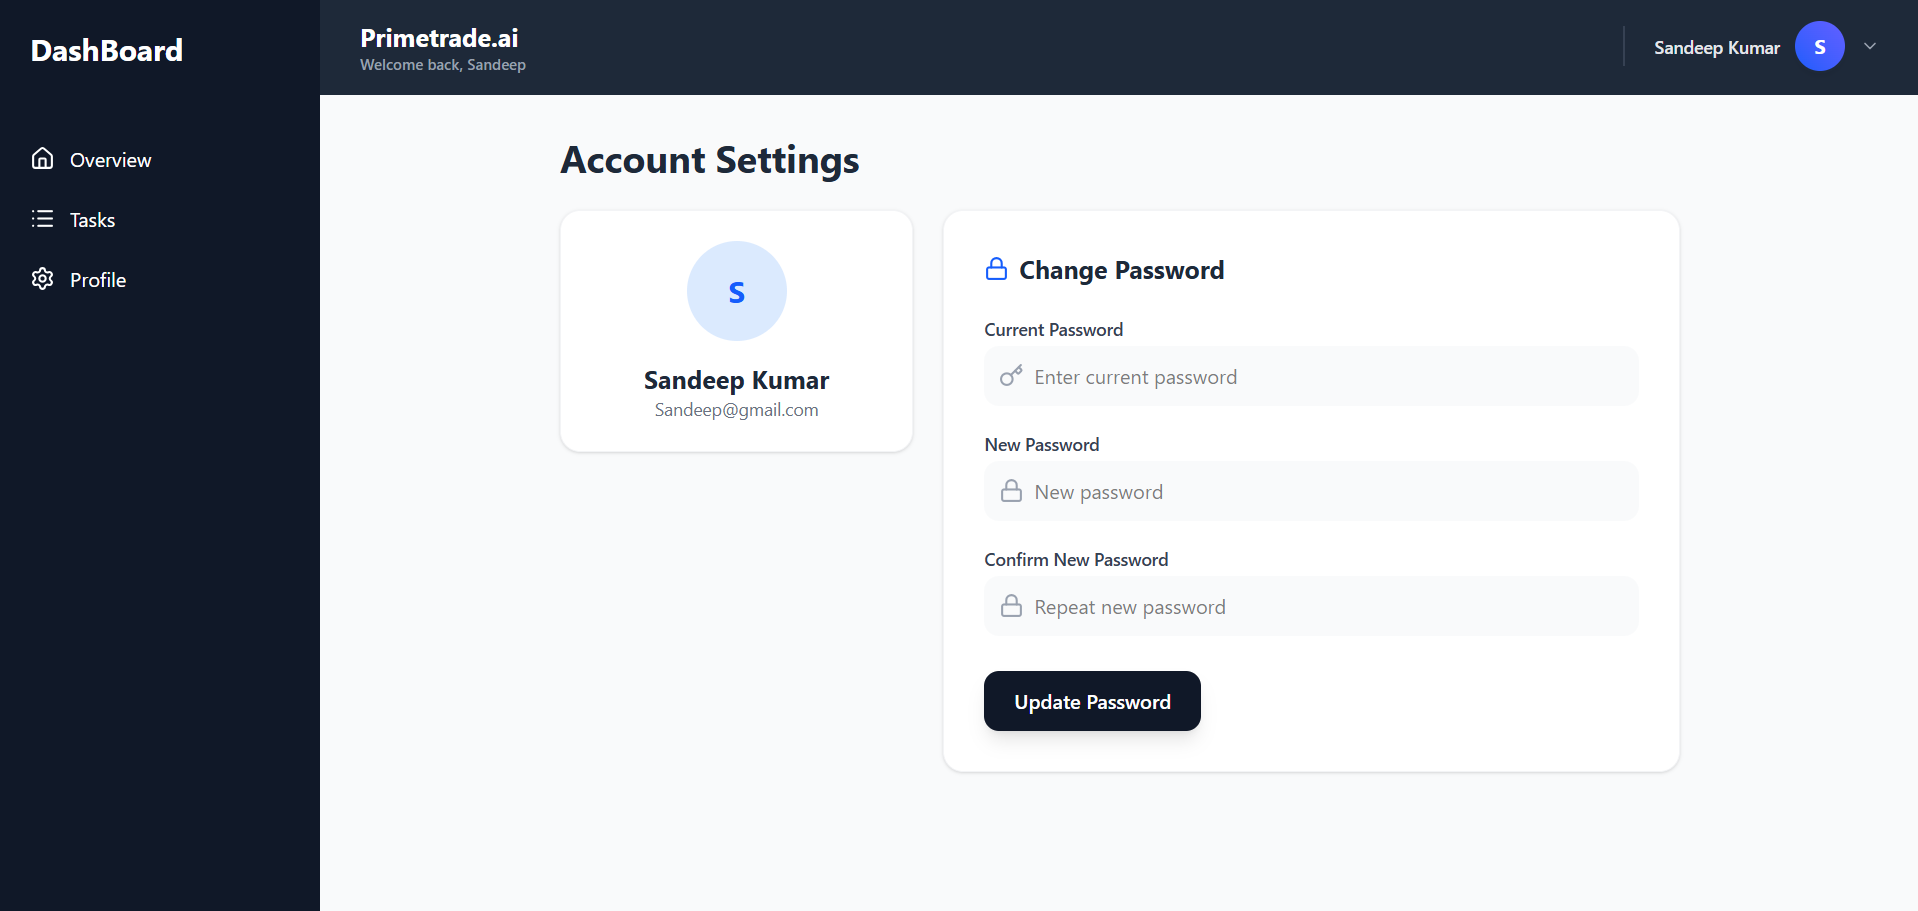
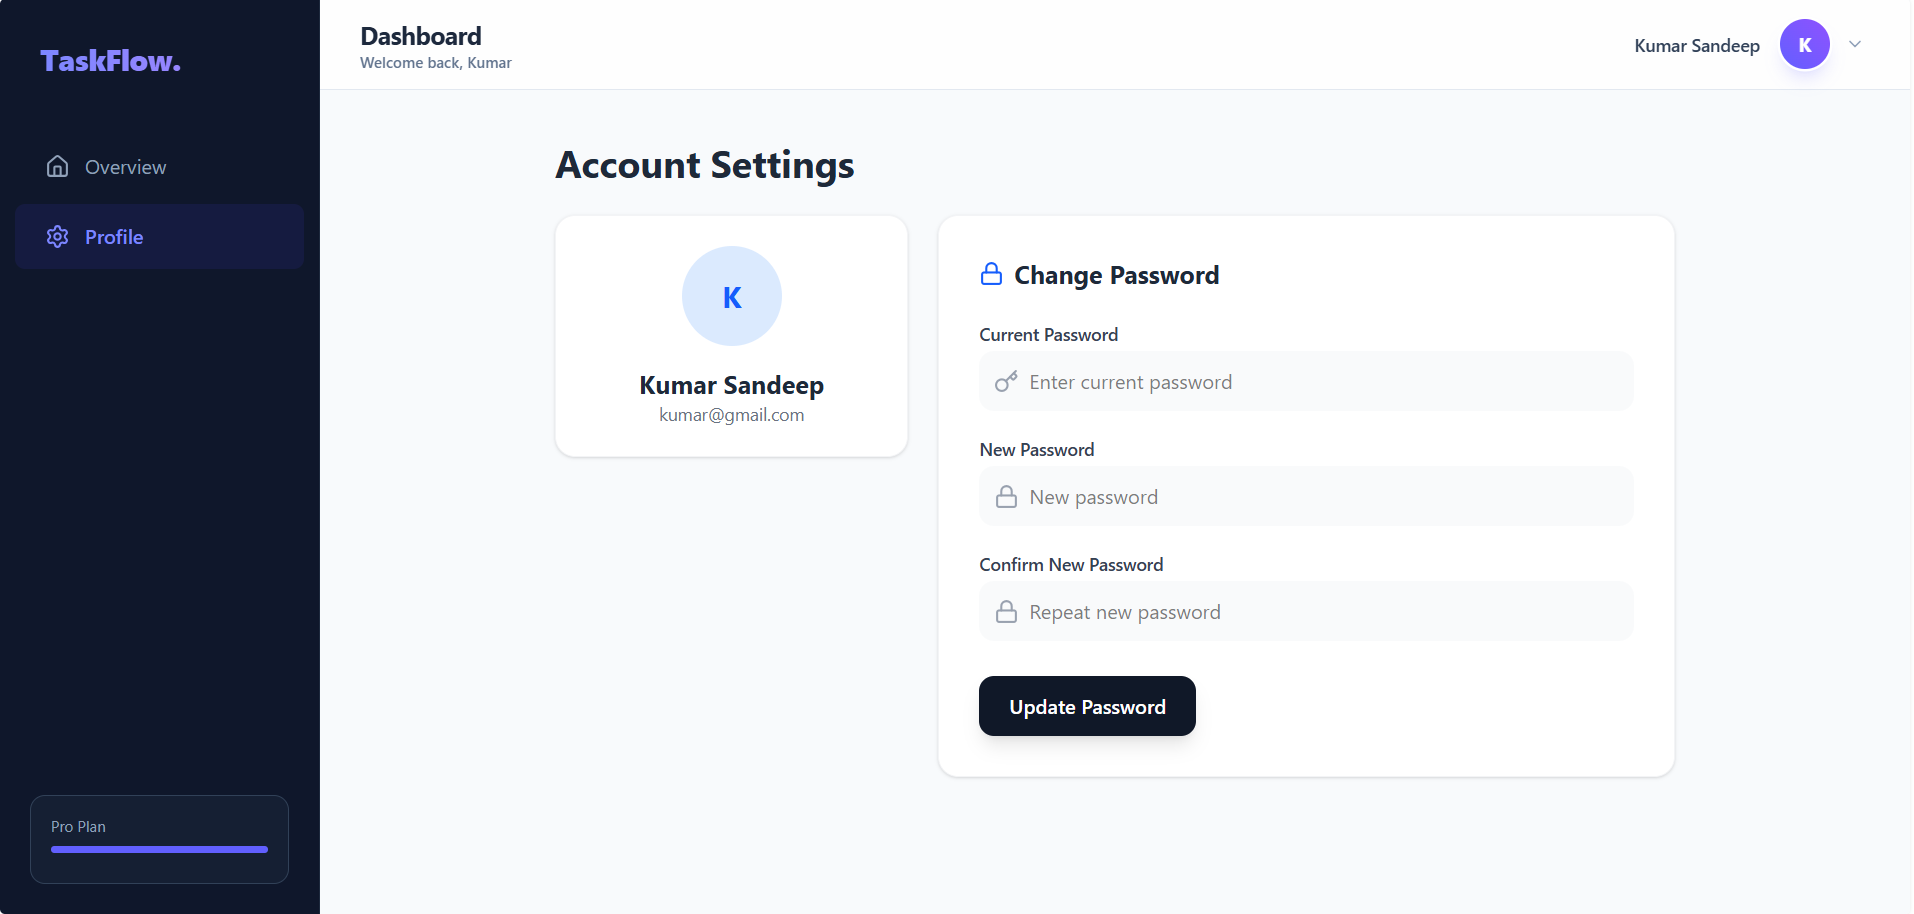
Second Commit

diff --git a/client/src/components/layout/Navbar.jsx b/client/src/components/layout/Navbar.jsx
@@ -1,20 +1,14 @@
 import { useContext, useState, useRef, useEffect } from 'react';
 import { AuthContext } from '../../context/AuthContext';
 import { useNavigate, Link } from 'react-router-dom';
-import { Bell, ChevronDown, LogOut, User, Settings, Menu } from 'lucide-react';
+import { ChevronDown, LogOut, User, Menu } from 'lucide-react';
 
-/**
- * @desc    Top Navigation Bar with responsive menu and user profile dropdown
- */
-const Navbar = ({ toggleSidebar }) => { // Accepted toggleSidebar prop if you used it in Layout
+const Navbar = ({ toggleSidebar }) => {
     const { user, logout } = useContext(AuthContext);
     const navigate = useNavigate();
-    
-    // Dropdown State
     const [isDropdownOpen, setIsDropdownOpen] = useState(false);
     const dropdownRef = useRef(null);
 
-    // Effect: Close dropdown when clicking outside component
     useEffect(() => {
         const handleClickOutside = (event) => {
             if (dropdownRef.current && !dropdownRef.current.contains(event.target)) {
@@ -25,86 +19,72 @@ const Navbar = ({ toggleSidebar }) => { // Accepted toggleSidebar prop if you us
         return () => document.removeEventListener("mousedown", handleClickOutside);
     }, []);
 
-    // Handlers
     const handleLogout = () => {
         logout();
         navigate('/login');
     };
 
-    const getInitials = (name) => {
-        return name ? name.charAt(0).toUpperCase() : 'U';
-    };
+    const getInitials = (name) => name ? name.charAt(0).toUpperCase() : 'U';
 
     return (
-        <nav className="bg-gray-800 text-white border-b border-gray-800 sticky top-0 z-50 px-8 py-4 flex justify-between items-center transition-all duration-300">
+        // Changed to Glassmorphism (White with blur) instead of dark gray
+        <nav className="bg-white/80 backdrop-blur-md border-b border-slate-200 sticky top-0 z-50 px-8 py-3 flex justify-between items-center">
             
-            {/* --- Left Side: Branding & Toggle --- */}
             <div className="flex items-center gap-4">
-                {/* Mobile Menu Toggle */}
-                <button onClick={toggleSidebar} className="md:hidden text-gray-400 hover:text-white">
+                <button onClick={toggleSidebar} className="md:hidden text-slate-500 hover:text-indigo-600 transition">
                     <Menu size={24} />
                 </button>
 
-                {/* Brand Title */}
                 <div>
-                    <h1 className="text-xl font-bold text-white">Primetrade.ai</h1>
-                    <p className="text-xs text-gray-400 font-medium">Welcome back, {user?.name?.split(' ')[0]}</p>
+                    {/* Darker text for light background */}
+                    <h1 className="text-xl font-bold text-slate-800 tracking-tight">Dashboard</h1>
+                    <p className="text-xs text-slate-500 font-medium">Welcome back, {user?.name?.split(' ')[0]}</p>
                 </div>
             </div>
 
-            {/* --- Right Side: Profile & Actions --- */}
             <div className="flex items-center gap-6">
-                
-                {/* Divider (Desktop only) */}
-                <div className="h-8 w-px bg-gray-700 hidden md:block"></div>
-
-                {/* User Dropdown Area */}
                 <div className="relative" ref={dropdownRef}>
-                    {/* Trigger Button */}
                     <button 
                         onClick={() => setIsDropdownOpen(!isDropdownOpen)}
-                        className="flex items-center gap-3 focus:outline-none group"
+                        className="flex items-center gap-3 focus:outline-none group p-1 rounded-full hover:bg-slate-50 transition"
                     >
-                        {/* User Name (Desktop) */}
-                        <div className="text-right hidden md:block">
-                            <p className="text-sm font-semibold text-gray-200 group-hover:text-white transition">
+                        <div className="text-right hidden md:block mr-1">
+                            <p className="text-sm font-semibold text-slate-700 group-hover:text-indigo-600 transition">
                                 {user?.name}
                             </p>
                         </div>
                         
-                        {/* Avatar Circle */}
-                        <div className="w-10 h-10 cursor-pointer rounded-full bg-linear-to-tr from-blue-600 to-indigo-500 text-white flex items-center justify-center font-bold shadow-md ring-2 ring-gray-800 group-hover:ring-blue-500 transition">
+                        {/* Gradient Avatar */}
+                        <div className="w-10 h-10 rounded-full bg-gradient-to-tr from-indigo-500 to-violet-500 text-white flex items-center justify-center font-bold shadow-lg shadow-indigo-500/20 ring-2 ring-white group-hover:ring-indigo-100 transition">
                             {getInitials(user?.name)}
                         </div>
                         
-                        {/* Chevron Icon */}
-                        <ChevronDown size={16} className={`text-gray-400 cursor-pointer transition-transform duration-200 ${isDropdownOpen ? 'rotate-180' : ''}`} />
+                        <ChevronDown size={16} className={`text-slate-400 transition-transform duration-200 ${isDropdownOpen ? 'rotate-180' : ''}`} />
                     </button>
 
-                    {/* Dropdown Menu Content */}
+                    {/* Modern Dropdown Card */}
                     {isDropdownOpen && (
-                        <div className="absolute right-0 mt-3 w-56 bg-white rounded-xl shadow-xl border border-gray-100 py-2 animate-fade-in-down z-50 text-gray-800">
-                            <div className="px-4 py-2 border-b border-gray-50 mb-1">
-                                <p className="text-xs text-gray-400 uppercase font-bold tracking-wider">Account</p>
+                        <div className="absolute right-0 mt-4 w-60 bg-white rounded-2xl shadow-xl shadow-slate-200/50 border border-slate-100 py-2 animate-in fade-in slide-in-from-top-2 duration-200 z-50">
+                            <div className="px-4 py-3 border-b border-slate-50 mb-1">
+                                <p className="text-xs text-slate-400 uppercase font-bold tracking-wider">My Account</p>
+                                <p className="text-sm font-medium text-slate-700 truncate">{user?.email}</p>
                             </div>
                             
-                            {/* Profile Link */}
                             <Link 
                                 to="/dashboard/profile" 
-                                className="flex items-center gap-3 px-4 py-2 text-gray-600 hover:bg-gray-50 hover:text-blue-600 transition"
+                                className="flex items-center gap-3 px-4 py-2.5 text-slate-600 hover:bg-indigo-50 hover:text-indigo-600 transition mx-2 rounded-lg"
                                 onClick={() => setIsDropdownOpen(false)}
                             >
-                                <User size={18} /> Profile
+                                <User size={18} /> Profile Settings
                             </Link>
                             
-                            <div className="border-t border-gray-50 my-1"></div>
+                            <div className="border-t border-slate-50 my-1 mx-2"></div>
                             
-                            {/* Logout Button */}
                             <button 
                                 onClick={handleLogout}
-                                className="w-full flex items-center gap-3 px-4 py-2 text-red-500 hover:bg-red-50 transition text-left"
+                                className="w-full flex items-center gap-3 px-4 py-2.5 text-rose-500 hover:bg-rose-50 transition text-left mx-2 rounded-lg mb-1"
                             >
-                                <LogOut size={18} /> Logout
+                                <LogOut size={18} /> Sign Out
                             </button>
                         </div>
                     )}

diff --git a/client/src/components/layout/Sidebar.jsx b/client/src/components/layout/Sidebar.jsx
@@ -1,26 +1,51 @@
-import { Link } from 'react-router-dom';
-import { Home, List, Settings, LogOut } from 'lucide-react';
+import { Link, useLocation } from 'react-router-dom';
+import { Home, List, Settings } from 'lucide-react';
 
 const Sidebar = () => {
+    const location = useLocation();
+
+    // Helper to check active state
+    const isActive = (path) => location.pathname === path;
+
+    const navItemClass = (path) => `
+        flex items-center py-3.5 px-6 my-1 mx-3 rounded-lg transition-all duration-200 group
+        ${isActive(path) 
+            ? 'bg-indigo-600/10 text-indigo-400 font-medium' 
+            : 'text-slate-400 hover:bg-slate-800/50 hover:text-slate-100'}
+    `;
+
     return (
-        <aside className="w-64 bg-gray-900 text-white min-h-screen hidden md:block">
-            <div className="p-6">
-                <h2 className="text-2xl font-bold">DashBoard</h2>
+        <aside className="w-64 bg-slate-900 border-r border-slate-800 min-h-screen hidden md:flex flex-col">
+            <div className="p-8">
+                {/* Modern Gradient Logo Text */}
+                <h2 className="text-2xl font-black bg-gradient-to-r from-indigo-400 to-violet-400 bg-clip-text text-transparent tracking-tight">
+                    TaskFlow.
+                </h2>
             </div>
-            <nav className="mt-6">
-                <Link to="/dashboard" className="flex items-center py-3 px-6 hover:bg-gray-800">
-                    <Home className="w-5 h-5 mr-3" />
+            
+            <nav className="mt-2 flex-1">
+                <Link to="/dashboard" className={navItemClass('/dashboard')}>
+                    <Home className={`w-5 h-5 mr-3 transition ${isActive('/dashboard') ? 'text-indigo-400' : 'group-hover:text-white'}`} />
                     Overview
                 </Link>
-                <Link to="/dashboard" className="flex items-center py-3 px-6 hover:bg-gray-800">
-                    <List className="w-5 h-5 mr-3" />
+                {/* <Link to="/dashboard/tasks" className={navItemClass('/dashboard/tasks')}>
+                    <List className={`w-5 h-5 mr-3 transition ${isActive('/dashboard/tasks') ? 'text-indigo-400' : 'group-hover:text-white'}`} />
                     Tasks
-                </Link>
-                <Link to="/dashboard/profile" className="flex items-center py-3 px-6 hover:bg-gray-800 transition">
-                    <Settings className="w-5 h-5 mr-3" />
+                </Link> */}
+                <Link to="/dashboard/profile" className={navItemClass('/dashboard/profile')}>
+                    <Settings className={`w-5 h-5 mr-3 transition ${isActive('/dashboard/profile') ? 'text-indigo-400' : 'group-hover:text-white'}`} />
                     Profile
                 </Link>
             </nav>
+
+            <div className="p-6">
+                <div className="bg-slate-800/50 rounded-xl p-4 border border-slate-700">
+                    <p className="text-xs text-slate-400 mb-2">Pro Plan</p>
+                    <div className="w-full bg-slate-700 rounded-full h-1.5 mb-2">
+                        <div className="bg-indigo-500 h-1.5 rounded-full" style={{ width: '100%' }}></div>
+                    </div>
+                </div>
+            </div>
         </aside>
     );
 };

diff --git a/client/src/components/layout/DashboardLayout.jsx b/client/src/components/layout/DashboardLayout.jsx
@@ -3,15 +3,17 @@ import Sidebar from './Sidebar';
 
 const DashboardLayout = ({ children }) => {
     return (
-        <div className="flex h-screen bg-gray-50">
+        // Changed bg-gray-50 to bg-slate-50 (a slightly cooler, more modern gray)
+        <div className="flex h-screen bg-slate-50 font-sans">
             <Sidebar />
             
-            {/* Main Content Area */}
-            <div className="flex-1 flex flex-col overflow-hidden">
-                <Navbar /> {/* Navbar sits inside here */}
+            <div className="flex-1 flex flex-col overflow-hidden relative">
+                <Navbar /> 
                 
-                <main className="flex-1 overflow-x-hidden overflow-y-auto p-6 md:p-8">
-                    {children}
+                <main className="flex-1 overflow-x-hidden overflow-y-auto p-6 md:p-10">
+                    <div className="max-w-7xl mx-auto animate-in fade-in duration-500">
+                        {children}
+                    </div>
                 </main>
             </div>
         </div>

diff --git a/client/src/components/common/Button.jsx b/client/src/components/common/Button.jsx
@@ -1,9 +1,10 @@
 const Button = ({ children, onClick, type = 'button', variant = 'primary', className = '' }) => {
-    const baseStyle = "px-4 py-2 rounded font-medium transition duration-200 focus:outline-none";
+    const baseStyle = "px-5 py-2.5 rounded-xl font-semibold transition-all duration-300 focus:outline-none transform active:scale-95 flex items-center justify-center";
+    
     const variants = {
-        primary: "bg-blue-600 text-white hover:bg-blue-700",
-        danger: "bg-red-500 text-white hover:bg-red-600",
-        secondary: "bg-gray-200 text-gray-800 hover:bg-gray-300"
+        primary: "bg-gradient-to-r from-indigo-600 to-violet-600 text-white hover:shadow-lg hover:shadow-indigo-500/30 hover:-translate-y-0.5 border border-transparent",
+        danger: "bg-gradient-to-r from-rose-500 to-red-600 text-white hover:shadow-lg hover:shadow-red-500/30 hover:-translate-y-0.5",
+        secondary: "bg-white text-slate-700 border border-slate-200 hover:bg-slate-50 hover:border-slate-300 hover:shadow-md"
     };
 
     return (

diff --git a/README.md b/README.md
@@ -4,18 +4,11 @@ A modern, scalable Full Stack MERN application featuring secure authentication, 
 
 📸 Screenshots
 
-![alt text](image.png)
+![alt text](image-4.png)
+![alt text](image-3.png)
 ![alt text](image-1.png)
 ![alt text](image-2.png)
-![alt text](image-3.png)
 
-Add a screenshot of your Dashboard here to showcase the UI.
-
-🔗 Live Demo & Repo
-
-GitHub Repo: [Insert Your Repo Link Here]
-
-Live Demo: (Optional: Add Vercel/Render link if deployed)
 
 🛠 Tech Stack
 
@@ -121,14 +114,5 @@ http://localhost:5173
   /models        -> Database Schemas
   /routes        -> API Endpoints
   /middleware    -> Auth & Error Handling
-
-
-🛡 Scalability Note
-
-Please refer to SCALABILITY.md for a detailed breakdown of how this application can be scaled for production.
-
-
-### Note for Postman
-"After logging in, please copy the token from the response and paste it into the Authorization > Bearer Token section for the Task API requests."
 
 Author: Sandeep Kumar
